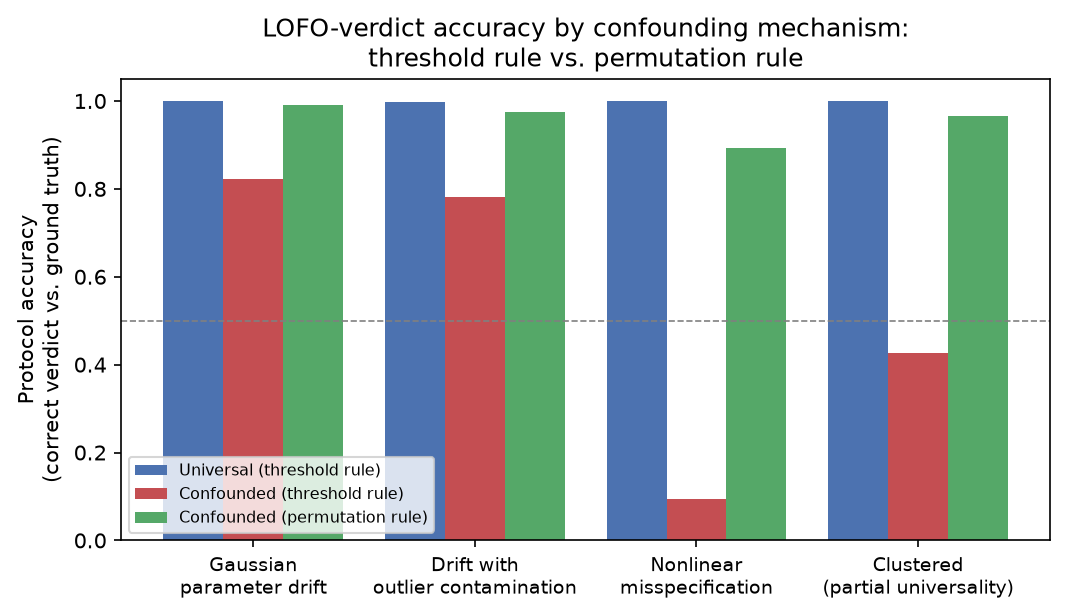
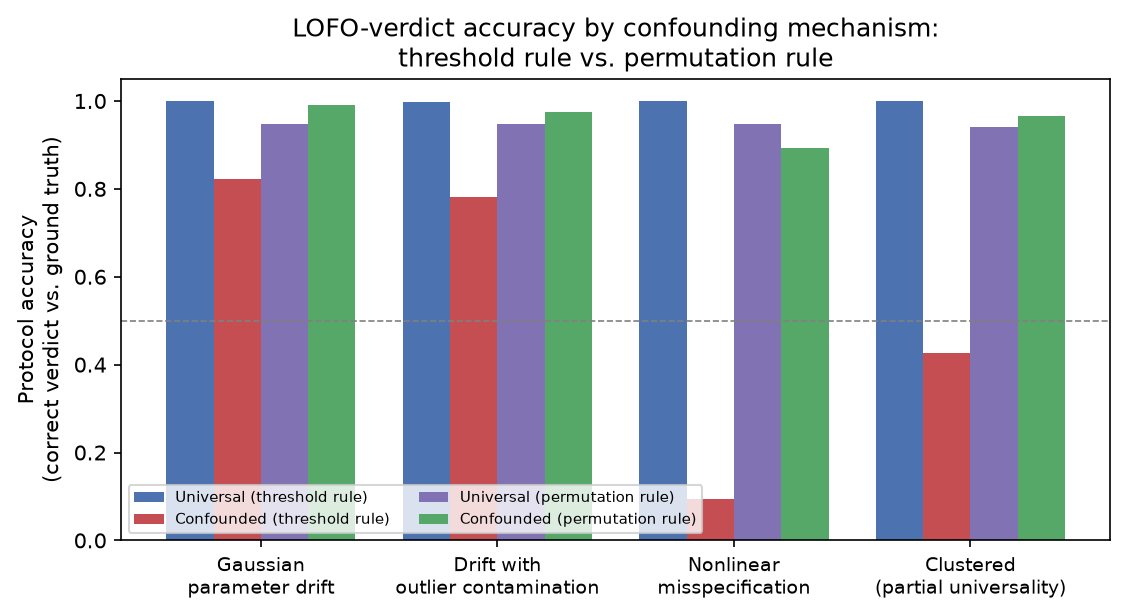
Address Ronda 9 review: fix figure/table inconsistency, trim abstract, soften over-strong claims
- Figure 1 was missing the universal-arm permutation-rule bar that Table 3
  already reported (3 bars vs. Table 3's 4 numbers per mechanism) -- a real
  figure/table inconsistency caught by review. Now shows all four
  combinations (universal/confounded x threshold/permutation).
- Trim the abstract (~15%): move AUC and GP-specific figures to the body
  (already reported in Section 4.3), which was flagged as excessively
  dense/numeric for a journal abstract.
- Soften "no extra cost" -> "no extra data-collection cost" throughout
  (the permutation test does have a modest compute cost: 99 refits per
  scenario, closed-form, but not literally free); qualify "reliable across
  all four mechanisms" and "actionable for anyone" with the tested-generator
  scope, consistent with the Limitations section's own caveat about
  mechanism calibration.
- Declare the exact bin edges used for the n/K detection-power breakdown
  in Section 4.2 (15/30/50/75/100 and 3/6/10/15/20), reproducibility gap
  flagged in review.

diff --git a/manuscript.tex b/manuscript.tex
@@ -32,7 +32,7 @@
 
 \keywords{domain generalization, scaling-law discovery, leave-one-group-out cross-validation, bootstrap, synthetic benchmarking, model misspecification}
 
-\abstract{Leave-one-group-out (here, leave-one-facility-out, LOFO) cross-validation with bootstrap resampling audits whether a data-driven scaling law generalizes across experimental sources or is an artifact of a single facility. Two companion manuscripts \citep{gilruiz2026paper1,gilruiz2026paper2} applied this protocol to a real 114-point windage (rotor-stator disc friction) dataset spanning four facilities and found that a good in-sample fit collapses under LOFO, and that classical and modern machine-learning models alike fail to recover a generalizing model. That negative result raises a question a single small dataset cannot answer: is the audit protocol itself reliable at that scale? We answer this with a synthetic study under known ground truth and four confounding mechanisms, adding real bootstrap resampling to match the companion manuscripts' methodology. The conventional LOFO R\textsuperscript{2}$>0$ declaration rule is reliable against parameter drift and heavy-tailed noise ($\sim$80\% correct verdicts when confounded), but has a severe, quantified blind spot: only 9.4\% of nonlinear-misspecified and 42.7\% of clustered (partially universal) scenarios are correctly flagged as non-generalizing, and detection does not improve with more facilities -- for nonlinear misspecification it gets worse (35.9\% at $K$=2--3 down to 0.7\% at $K$=16--20). A facility-label permutation test ($n_{\text{perm}}$=99, $\alpha$=0.05) computed from the same fits, at no extra data cost, is a substantially more reliable replacement: 96.5\% vs.\ 90.1\% overall accuracy on the first pass, at the cost of lowering accuracy on truly universal scenarios from 100\% to $\sim$94--95\% (a false-alarm rate consistent with the $\alpha$=0.05 significance level used), and it is the rule we recommend going forward. On the ambiguous confounded-only cases where the threshold rule degrades with $K$ (77--96\%), the permutation rule holds at 100\% for $K\geq4$. An observable-only meta-model estimator predicting the threshold rule's own reliability reaches 96.6\% accuracy (AUC 0.952, vs.\ a same-target majority-class baseline of 90.1\%) in the Gaussian-drift pass and 85.5\% (AUC 0.893, baseline 76.8\%) in the general four-mechanism pass; an oracle variant additionally told the (usually unknown) confounding mechanism reaches 91.8\% (AUC 0.935) there -- a what-if upper bound, not a practical performance claim. Applied to the real windage case's verdict, the observable-only estimator gives near-certain support (GBM 0.997--0.999, GP 0.627--0.633) for the companion manuscripts' negative finding not being a small-sample artifact; we show, however, that the GBM's near-certainty is a tautological property of this generator design (P(correct)=1.0000 across 1,590 scenarios sharing the real case's observed verdict) rather than case-specific evidence, so this check should be read only as a weak, illustrative consistency check, not as independent confirmation.}
+\abstract{Leave-one-group-out (here, leave-one-facility-out, LOFO) cross-validation with bootstrap resampling audits whether a data-driven scaling law generalizes across experimental sources or is an artifact of a single facility. Two companion manuscripts \citep{gilruiz2026paper1,gilruiz2026paper2} applied this protocol to a real 114-point windage (rotor-stator disc friction) dataset spanning four facilities and found that a good in-sample fit collapses under LOFO, and that classical and modern machine-learning models alike fail to recover a generalizing model. That negative result raises a question a single small dataset cannot answer: is the audit protocol itself reliable at that scale? We answer this with a synthetic study under known ground truth and four confounding mechanisms, adding real bootstrap resampling to match the companion manuscripts' methodology. The conventional LOFO R\textsuperscript{2}$>0$ declaration rule is reliable against parameter drift and heavy-tailed noise ($\sim$80\% correct verdicts when confounded), but has a severe, quantified blind spot: only 9.4\% of nonlinear-misspecified and 42.7\% of clustered (partially universal) scenarios are correctly flagged as non-generalizing, and detection does not improve with more facilities -- for nonlinear misspecification it gets worse (35.9\% at $K$=2--3 down to 0.7\% at $K$=16--20). A facility-label permutation test ($n_{\text{perm}}$=99, $\alpha$=0.05) computed from the same fits, at no extra data-collection cost, is a substantially more reliable replacement: 96.5\% vs.\ 90.1\% overall accuracy on the first pass, at the cost of lowering accuracy on truly universal scenarios from 100\% to $\sim$94--95\% (a false-alarm rate consistent with the $\alpha$=0.05 significance level used), and it is the rule we recommend going forward under the confounding mechanisms tested here. On the ambiguous confounded-only cases where the threshold rule degrades with $K$ (77--96\%), the permutation rule holds at 100\% for $K\geq4$. An observable-only meta-model estimator predicting the threshold rule's own reliability reaches 96.6\% accuracy on the Gaussian-drift pass and 85.5\% on the general four-mechanism pass, both against a same-target majority-class baseline of 90.1\% and 76.8\% respectively; an oracle variant additionally told the (usually unknown) confounding mechanism reaches 91.8\% there, a what-if upper bound rather than a practical performance claim. Applied to the real windage case's verdict, this estimator gives near-certain support for the companion manuscripts' negative finding not being a small-sample artifact; we show, however, that this near-certainty is a tautological property of the generator design (P(correct)=1.0000 across 1,590 scenarios sharing the real case's observed verdict) rather than case-specific evidence, so it should be read as a weak, illustrative consistency check rather than independent confirmation.}
 
 \end{Frontmatter}
 
@@ -111,7 +111,7 @@ We evaluate the trained meta-model at the real windage case's design point ($K=4
 
 Across the first-pass 4,000 Gaussian-drift scenarios ($n{=}2013$ truly universal, $n{=}1987$ truly confounded), the LOFO$>0$ threshold verdict is correct 90.1\% of the time overall: 100.0\% when the ground truth is universal, but 80.0\% when truly confounded. The facility-level bootstrap's Reynolds-exponent confidence interval excludes zero (the coefficient ``survives'') 100.0\% of the time when truly universal and 71.8\% of the time when truly confounded under this mechanism --- close to, but slightly less reliable than, the threshold verdict itself here, consistent with bootstrap and LOFO testing related but not identical things (coefficient stability vs.\ held-out predictive fit).
 
-\paragraph{The permutation-test rule is more reliable at no extra cost.} The facility-label permutation test (Method) computed from the same pooled fits raises overall accuracy to 96.5\%: 94.2\% when truly universal (a small increase in false alarms relative to the threshold rule's 100.0\%) and 98.7\% when truly confounded (a large gain over the threshold rule's 80.0\%). The trade is real: a handful of false ``confounded'' calls on genuinely universal scenarios, in exchange for a much larger reduction in missed detections. At the $\alpha=0.05$ significance level used throughout, the net effect strongly favors the permutation rule, and Section~\ref{sec:results-v2} shows the gain is largest precisely where the threshold rule is weakest.
+\paragraph{The permutation-test rule is more reliable at no extra data-collection cost.} The facility-label permutation test (Method) computed from the same pooled fits raises overall accuracy to 96.5\%: 94.2\% when truly universal (a small increase in false alarms relative to the threshold rule's 100.0\%) and 98.7\% when truly confounded (a large gain over the threshold rule's 80.0\%). The trade is real: a handful of false ``confounded'' calls on genuinely universal scenarios, in exchange for a much larger reduction in missed detections. At the $\alpha=0.05$ significance level used throughout, the net effect strongly favors the permutation rule, and Section~\ref{sec:results-v2} shows the gain is largest precisely where the threshold rule is weakest.
 
 \paragraph{Part of the headline 80.0\% figure is a labeling artifact, not a protocol failure.} Table~\ref{tab:h-band} breaks the threshold rule's ``when confounded'' accuracy down by the drift strength $h$ that actually generated each scenario. At $h\in(0,0.1]$, where the confounded arm is by construction numerically close to indistinguishable from the universal arm, threshold-rule accuracy is exactly 0.0\%: the protocol is being scored wrong for correctly failing to detect confounding that is, at that drift strength, not really there to detect. Accuracy rises sharply and near-monotonically with $h$, reaching $>95\%$ by $h>1.0$. The pooled 80.0\% headline figure is therefore a mixture of genuine protocol failures (mid-range $h$) and this definitional effect (near-zero $h$); it should not be read as ``the protocol misses 20\% of real confounding'' without this caveat. The permutation rule is far less sensitive to this effect: even at $h\in(0,0.1]$ it reaches 75.4\% accuracy, rising to $>99\%$ by $h>0.25$ -- consistent with it testing against the scenario's own noise level rather than a fixed threshold (Method).
 
@@ -162,9 +162,9 @@ $\phantom{-}0.5$ & 0.964 & 1.000 & 0.927 \\
 
 Table~\ref{tab:by-type} and Figure~\ref{fig:accuracy-by-type} report LOFO-verdict accuracy separately for ground-truth-universal and ground-truth-confounded scenarios, by mechanism, from the independent second pass (2,000 scenarios per mechanism), for both the threshold rule and the permutation rule (Method). Under the threshold rule, robustness to Gaussian parameter drift (82.3\%) and to outlier contamination (78.2\%) is comparable. Nonlinear misspecification is where the threshold rule fails most severely: only 9.4\% (95\% CI [7.8,11.4]\%) of genuinely misspecified scenarios are correctly flagged as non-generalizing --- 90.6\% of the time, a facility-specific nonlinear effect the fitted linear model cannot represent is misread as evidence of a universal law. Clustered, partial universality is also poorly detected by the threshold rule (42.7\%, 95\% CI [39.7,45.7]\%): it mistakes ``some facilities share structure'' for ``all facilities share structure'' 57.3\% of the time.
 
-\paragraph{The permutation rule closes most of this gap.} The same second-pass scenarios, scored instead by the facility-label permutation test (Method), tell a markedly different story: 99.0\%, 97.6\%, 89.4\%, and 96.6\% detection when truly confounded under Gaussian drift, outlier contamination, nonlinear misspecification, and clustered confounding respectively --- turning the threshold rule's worst cases (nonlinear misspecification, clustered) into its best. Pooled over all 8,000 second-pass scenarios, the permutation rule reaches 95.1\% overall accuracy (per-mechanism overall accuracy 92.1--96.9\%; full breakdown in \texttt{results/synth\_scenarios\_v2\_summary.json}), against 76.1\% pooled (53.8--91.2\% per mechanism) for the threshold rule. This is the paper's central practical recommendation: at essentially no extra data-collection cost, replacing the plain LOFO$>0$ threshold with a facility-label permutation test turns a protocol with a severe, mechanism-dependent blind spot into one that is reliable across all four mechanisms tested.
+\paragraph{The permutation rule closes most of this gap.} The same second-pass scenarios, scored instead by the facility-label permutation test (Method), tell a markedly different story: 99.0\%, 97.6\%, 89.4\%, and 96.6\% detection when truly confounded under Gaussian drift, outlier contamination, nonlinear misspecification, and clustered confounding respectively --- turning the threshold rule's worst cases (nonlinear misspecification, clustered) into its best. Pooled over all 8,000 second-pass scenarios, the permutation rule reaches 95.1\% overall accuracy (per-mechanism overall accuracy 92.1--96.9\%; full breakdown in \texttt{results/synth\_scenarios\_v2\_summary.json}), against 76.1\% pooled (53.8--91.2\% per mechanism) for the threshold rule. This is the paper's central practical recommendation: at essentially no extra data-collection cost, replacing the plain LOFO$>0$ threshold with a facility-label permutation test turns a protocol with a severe, mechanism-dependent blind spot into one that is reliable across all four mechanisms tested under this generator design.
 
-\paragraph{Detection power under the threshold rule does not improve with more data.} For nonlinear misspecification specifically, threshold-rule detection accuracy on genuinely confounded scenarios does not rise with sample size and \emph{falls} with facility count: 13.7\% at $n\leq15$ points/facility to 7.3\% at $n\in[76,100]$, and 35.9\% at $K$=2--3 facilities down to 0.7\% at $K$=16--20. The permutation rule shows the opposite pattern on the same scenarios, rising from 60.4\% ($n\leq15$) to 91.6--95.3\% ($n\geq16$) and from 75.6\% ($K$=2--3) to 93.6\% ($K$=16--20). We do not derive a closed-form explanation for why the threshold rule's power degrades rather than merely staying low here (a natural next step, left to future work); empirically, this is further evidence against ``collect more facilities'' as a fix for the threshold rule's blind spot, and further support for switching to the permutation rule instead.
+\paragraph{Detection power under the threshold rule does not improve with more data.} For nonlinear misspecification specifically, threshold-rule detection accuracy on genuinely confounded scenarios does not rise with sample size and \emph{falls} with facility count. Binning $n$ at edges 15/30/50/75/100 points per facility, accuracy is 13.7\% at $n\leq15$ down to 7.3\% at $n\in(76,100]$; binning $K$ at edges 3/6/10/15/20 facilities, accuracy is 35.9\% at $K\in[2,3]$ down to 0.7\% at $K\in(15,20]$. The permutation rule shows the opposite pattern on the same scenarios, rising from 60.4\% ($n\leq15$) to 91.6--95.3\% ($n\geq16$) and from 75.6\% ($K$=2--3) to 93.6\% ($K$=16--20). We do not derive a closed-form explanation for why the threshold rule's power degrades rather than merely staying low here (a natural next step, left to future work); empirically, this is further evidence against ``collect more facilities'' as a fix for the threshold rule's blind spot, and further support for switching to the permutation rule instead.
 
 Notably, the facility-level bootstrap tells a different story for nonlinear misspecification specifically: the Reynolds-exponent confidence interval excludes zero (``survives'') 98.8\% of the time even when truly confounded under this mechanism, versus only 86.8\% for clustered confounding and 70.9--71.0\% for the other two mechanisms (raw figures in \texttt{results/synth\_scenarios\_v2\_summary.json}). This is not a contradiction. It simply is not a case where LOFO does its job well either: the true linear coefficients \emph{are} universal under nonlinear misspecification by construction (only the unmodeled quadratic term differs by facility), so bootstrap correctly identifies the linear structure as stable. The unmodeled nonlinearity genuinely does hurt held-out prediction --- but LOFO's R\textsuperscript{2}$>0$ threshold is not sensitive enough to detect that damage 90.6\% of the time; pooled prediction error from the unmodeled term is frequently not large enough to push pooled LOFO R\textsuperscript{2} below zero. LOFO and bootstrap answer different questions --- predictive generalization versus coefficient stability --- and this mechanism is exactly where the two diagnostics can legitimately diverge, with LOFO specifically the less reliable of the two here.
 
@@ -189,7 +189,7 @@ Clustered (partial)         & 0.999 & 0.427 & [0.397, 0.457] & 0.940 & 0.966 & [
 \begin{figure}[tbp]
 \centering
 \includegraphics[width=0.85\textwidth]{figures/fig1_accuracy_by_confound_type.png}
-\caption{LOFO-verdict accuracy by confounding mechanism, ground truth, and declaration rule. The threshold rule (blue/red) is reliable against parameter drift and noise but has severe blind spots against nonlinear misspecification and clustered/partial universality; the permutation rule (green) recovers most of the loss on exactly those two mechanisms}
+\caption{LOFO-verdict accuracy by confounding mechanism, ground truth, and declaration rule (all four combinations reported in Table~\ref{tab:by-type}). The threshold rule (blue/red) is reliable against parameter drift and noise but has severe blind spots against nonlinear misspecification and clustered/partial universality; the permutation rule (purple/green) recovers most of the loss on exactly those two mechanisms, at the cost of a lower accuracy on truly universal data (purple, $\sim$94--95\% vs.\ the threshold rule's blue bars)}
 \label{fig:accuracy-by-type}
 \end{figure}
 
@@ -266,7 +266,7 @@ The four confounding mechanisms are not calibrated to a common effect size: the 
 
 \section{Conclusion}
 
-We show, via a two-pass synthetic study with both LOFO cross-validation and facility-level bootstrap implemented, that under the conventional LOFO$>0$ threshold rule, a standard cross-domain audit protocol for scaling-law discovery is reliable against simple parameter drift and heavy noise but has severe, quantified blind spots against nonlinear model misspecification and clustered (partial) universality that do not shrink, and for nonlinear misspecification worsen, with more facilities. A facility-label permutation test, computed from the same fits at no extra data-collection cost, closes most of this gap -- at the cost of a higher false-alarm rate on genuinely universal data ($\sim$94--95\% accuracy there, versus the threshold rule's 100\%, consistent with the $\alpha$=0.05 significance level used) -- and is the declaration rule we recommend going forward. An observable-only meta-model estimator, applied to the real windage case's own observed threshold-rule verdict \citep{gilruiz2026paper1,gilruiz2026paper2}, gives near-certain but largely tautological support (0.627--0.999 across its two implementations, the higher number reflecting a structural property of the generator rather than case-specific evidence, as we verify directly) to the narrower claim that a false-positive confounding call is an unlikely explanation for that verdict -- an illustrative check, not independent confirmation that the real case's own confounding mechanism is one this protocol reliably detects. This closes the three-manuscript arc --- audit protocol, real-world application, and a characterization of the protocol's own reliability boundaries, including a concrete fix for its main blind spot --- with a result directly actionable for anyone applying this class of method to a new domain.
+We show, via a two-pass synthetic study with both LOFO cross-validation and facility-level bootstrap implemented, that under the conventional LOFO$>0$ threshold rule, a standard cross-domain audit protocol for scaling-law discovery is reliable against simple parameter drift and heavy noise but has severe, quantified blind spots against nonlinear model misspecification and clustered (partial) universality that do not shrink, and for nonlinear misspecification worsen, with more facilities. A facility-label permutation test, computed from the same fits at no extra data-collection cost, closes most of this gap -- at the cost of a higher false-alarm rate on genuinely universal data ($\sim$94--95\% accuracy there, versus the threshold rule's 100\%, consistent with the $\alpha$=0.05 significance level used) -- and is the declaration rule we recommend going forward. An observable-only meta-model estimator, applied to the real windage case's own observed threshold-rule verdict \citep{gilruiz2026paper1,gilruiz2026paper2}, gives near-certain but largely tautological support (0.627--0.999 across its two implementations, the higher number reflecting a structural property of the generator rather than case-specific evidence, as we verify directly) to the narrower claim that a false-positive confounding call is an unlikely explanation for that verdict -- an illustrative check, not independent confirmation that the real case's own confounding mechanism is one this protocol reliably detects. This closes the three-manuscript arc --- audit protocol, real-world application, and a characterization of the protocol's own reliability boundaries, including a concrete fix for its main blind spot --- with a result directly actionable for anyone applying this class of method to a domain with a broadly similar confounding structure.
 
 \begin{appendix}
 \section{Minimum Verifiable Facts from the Companion Manuscripts}

diff --git a/code/make_figures.py b/code/make_figures.py
@@ -20,20 +20,22 @@ labels = ["Gaussian\nparameter drift", "Drift with\noutlier contamination", "Non
 
 acc_universal = [df2[(df2.confound_type == t) & (df2.is_universal)].correct.mean() for t in types]
 acc_confounded = [df2[(df2.confound_type == t) & (~df2.is_universal)].correct.mean() for t in types]
+acc_universal_perm = [df2[(df2.confound_type == t) & (df2.is_universal)].perm_correct.mean() for t in types]
 acc_confounded_perm = [df2[(df2.confound_type == t) & (~df2.is_universal)].perm_correct.mean() for t in types]
 
-fig, ax = plt.subplots(figsize=(7.2, 4.2))
+fig, ax = plt.subplots(figsize=(7.6, 4.2))
 x = np.arange(len(types))
-w = 0.27
-ax.bar(x - w, acc_universal, w, label="Universal (threshold rule)", color="#4C72B0")
-ax.bar(x, acc_confounded, w, label="Confounded (threshold rule)", color="#C44E52")
-ax.bar(x + w, acc_confounded_perm, w, label="Confounded (permutation rule)", color="#55A868")
+w = 0.2
+ax.bar(x - 1.5*w, acc_universal, w, label="Universal (threshold rule)", color="#4C72B0")
+ax.bar(x - 0.5*w, acc_confounded, w, label="Confounded (threshold rule)", color="#C44E52")
+ax.bar(x + 0.5*w, acc_universal_perm, w, label="Universal (permutation rule)", color="#8172B3")
+ax.bar(x + 1.5*w, acc_confounded_perm, w, label="Confounded (permutation rule)", color="#55A868")
 ax.set_xticks(x)
 ax.set_xticklabels(labels, fontsize=9)
 ax.set_ylabel("Protocol accuracy\n(correct verdict vs. ground truth)")
 ax.set_ylim(0, 1.05)
 ax.axhline(0.5, color="grey", ls="--", lw=0.8)
-ax.legend(loc="lower left", fontsize=7.5)
+ax.legend(loc="lower left", fontsize=7, ncol=2)
 ax.set_title("LOFO-verdict accuracy by confounding mechanism:\nthreshold rule vs. permutation rule")
 fig.tight_layout()
 fig.savefig(os.path.join(FIGS, "fig1_accuracy_by_confound_type.png"), bbox_inches="tight")
